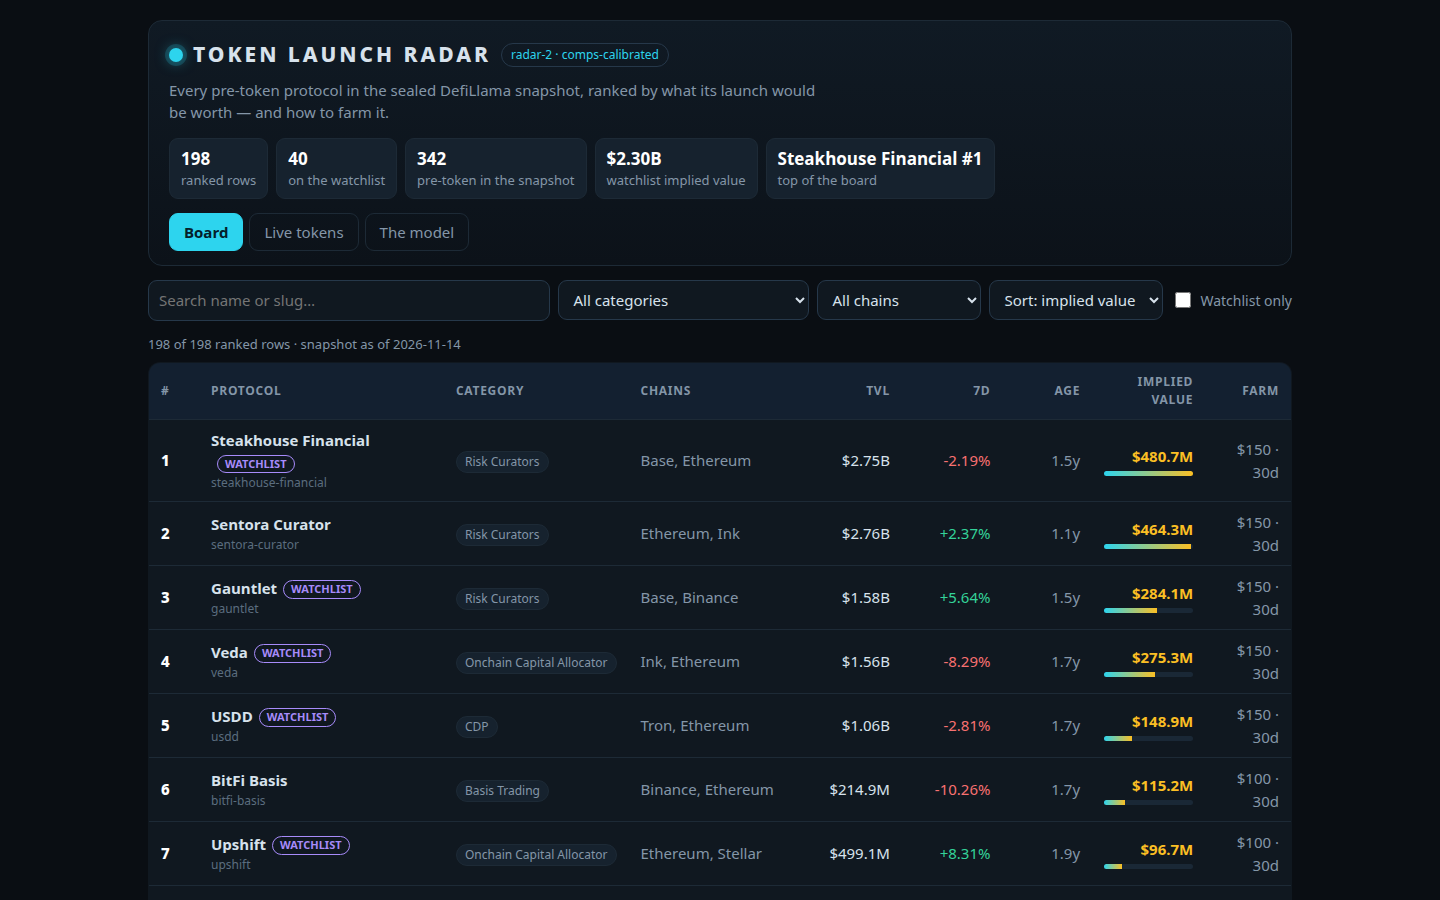
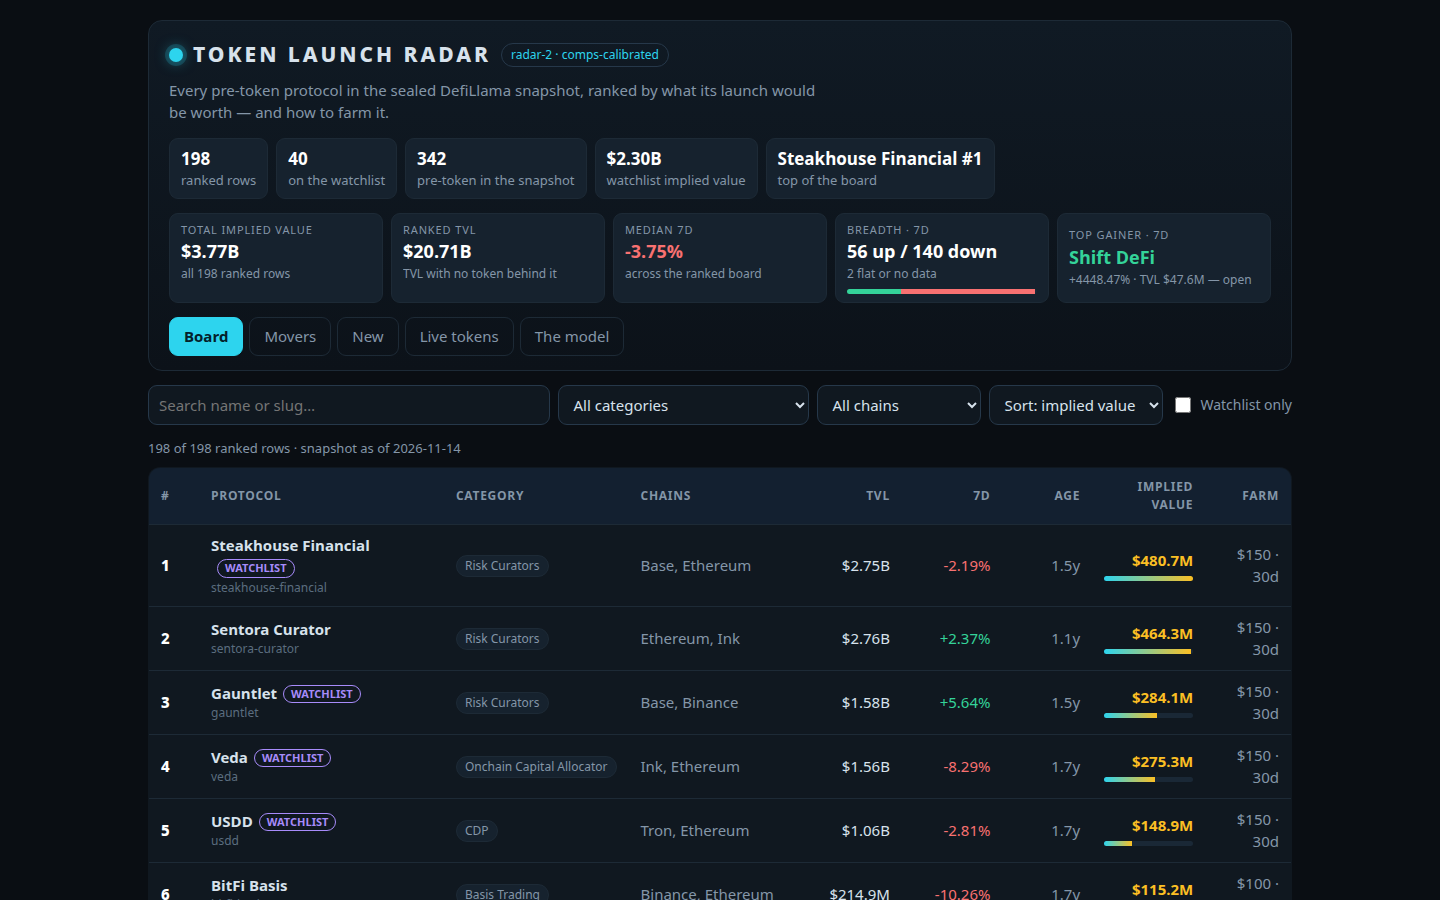
Award pass: trading-terminal dashboard — market strip, Movers and New views

diff --git a/dashboard/app.js b/dashboard/app.js
@@ -279,6 +279,120 @@
     main.appendChild(wrap);
   }
 
+  // ---------- market strip: the whole market at a glance ----------
+  function renderMarket() {
+    var box = document.getElementById('market');
+    box.innerHTML = '';
+    var rows = DATA.rows;
+    var totalImplied = rows.reduce(function (n, r) { return n + r.implied_value_usd; }, 0);
+    var totalTvl = rows.reduce(function (n, r) { return n + r.tvl_usd; }, 0);
+    var changes = rows.map(function (r) { return r.change_7d; })
+      .filter(function (c) { return c !== null && c !== undefined; })
+      .sort(function (a, b) { return a - b; });
+    var median = changes.length ? changes[Math.floor(changes.length / 2)] : null;
+    var up = rows.filter(function (r) { return r.change_7d !== null && r.change_7d > 0; }).length;
+    var down = rows.filter(function (r) { return r.change_7d !== null && r.change_7d < 0; }).length;
+    var flat = rows.length - up - down;
+    var gainer = rows.slice().sort(function (a, b) {
+      return (b.change_7d === null ? -1e9 : b.change_7d) - (a.change_7d === null ? -1e9 : a.change_7d);
+    })[0];
+    function tile(label, big, sub, cls) {
+      var t = el('div', { class: 'mkt' },
+        el('span', { class: 'lbl', text: label }),
+        el('span', { class: 'big' + (cls ? ' ' + cls : ''), text: big }),
+        sub ? el('span', { class: 'sub2', text: sub }) : null);
+      box.appendChild(t);
+      return t;
+    }
+    tile('Total implied value', fmtUsd(totalImplied), 'all ' + rows.length + ' ranked rows');
+    tile('Ranked TVL', fmtUsd(totalTvl), 'TVL with no token behind it');
+    tile('Median 7d', fmtPct(median), 'across the ranked board', median !== null && median >= 0 ? 'up' : 'down');
+    var breadth = tile('Breadth · 7d', up + ' up / ' + down + ' down', flat + ' flat or no data');
+    breadth.appendChild(el('div', { class: 'bread' },
+      el('i', { class: 'g', style: 'width:' + (100 * up / rows.length) + '%' }),
+      el('i', { class: 'r', style: 'width:' + (100 * down / rows.length) + '%' })));
+    box.appendChild(el('button', { class: 'mkt', type: 'button', onclick: function () { openDetail(gainer.slug); } },
+      el('span', { class: 'lbl', text: 'Top gainer · 7d' }),
+      el('span', { class: 'big up', text: gainer.name }),
+      el('span', { class: 'sub2', text: fmtPct(gainer.change_7d) + ' · TVL ' + fmtUsd(gainer.tvl_usd) + ' — open' })));
+  }
+
+  // ---------- movers ----------
+  function moverTable(rows, last) {
+    var table = el('table', { class: 'mini' });
+    table.appendChild(el('thead', {}, el('tr', {},
+      el('th', { text: '#' }), el('th', { text: 'Protocol' }), el('th', { class: 'num', text: 'TVL' }),
+      el('th', { class: 'num', text: '7d' }), el('th', { class: 'num', text: last === 'swing' ? '$ swing' : 'Implied' }))));
+    var tbody = el('tbody', {});
+    rows.forEach(function (r) {
+      var swing = r.tvl_usd * (r.change_7d === null ? 0 : r.change_7d) / 100;
+      tbody.appendChild(el('tr', { onclick: function () { openDetail(r.slug); } },
+        el('td', { class: 'rank', text: String(r.rank) }),
+        el('td', {}, el('span', { class: 'name', text: r.name }),
+          watchSet[r.slug] ? el('span', { class: 'badge', text: 'WATCHLIST' }) : null),
+        el('td', { class: 'num', text: fmtUsd(r.tvl_usd) }),
+        el('td', { class: 'num pct ' + (r.change_7d === null ? 'mut' : r.change_7d >= 0 ? 'pos' : 'neg'), text: fmtPct(r.change_7d) }),
+        el('td', { class: 'num ' + (last === 'swing' ? (swing >= 0 ? 'pos' : 'neg') : 'val'),
+          text: last === 'swing' ? (swing >= 0 ? '+' : '−') + fmtUsd(Math.abs(swing)) : fmtUsd(r.implied_value_usd) })));
+    });
+    table.appendChild(tbody);
+    return table;
+  }
+  function renderMovers() {
+    main.innerHTML = '';
+    main.appendChild(el('div', { class: 'sect' },
+      el('h2', { text: 'Movers — 7-day TVL change' }),
+      el('p', { text: 'The snapshot\u2019s own figures, across the ' + DATA.rows.length + ' ranked rows. A move is what the market did; the model prices growth clamped to +120%, so a +4,448% week still scores as +120%. Click a row to open its detail.' })));
+    var withChange = DATA.rows.filter(function (r) { return r.change_7d !== null && r.change_7d !== undefined; });
+    var byChange = withChange.slice().sort(function (a, b) { return b.change_7d - a.change_7d; });
+    var byDollar = DATA.rows.slice()
+      .map(function (r) { return { r: r, d: Math.abs(r.tvl_usd * (r.change_7d === null ? 0 : r.change_7d) / 100) }; })
+      .sort(function (a, b) { return b.d - a.d; }).slice(0, 8)
+      .map(function (x) { return x.r; });
+    var grid = el('div', { class: 'movers' });
+    var gainers = el('div', { class: 'card' }, el('h3', { text: 'Top gainers · 7d' }));
+    gainers.appendChild(moverTable(byChange.slice(0, 10), 'implied'));
+    var losers = el('div', { class: 'card' }, el('h3', { text: 'Top losers · 7d' }));
+    losers.appendChild(moverTable(byChange.slice(-10).reverse(), 'implied'));
+    var swings = el('div', { class: 'card full' }, el('h3', { text: 'Biggest dollar swings — TVL gained or lost in the week' }));
+    swings.appendChild(moverTable(byDollar, 'swing'));
+    grid.appendChild(gainers);
+    grid.appendChild(losers);
+    grid.appendChild(swings);
+    main.appendChild(grid);
+  }
+
+  // ---------- new listings ----------
+  function renderNew() {
+    main.innerHTML = '';
+    main.appendChild(el('div', { class: 'sect' },
+      el('h2', { text: 'New — the most recently tracked launches' }),
+      el('p', { text: '\u201CNew\u201D means newly tracked by DefiLlama, not newly launched — a protocol can run for years before it appears here. Click a row to open its detail.' })));
+    var rows = DATA.rows.filter(function (r) { return r.listed_at; })
+      .sort(function (a, b) { return b.listed_at.localeCompare(a.listed_at); }).slice(0, 20);
+    var nodate = DATA.rows.filter(function (r) { return !r.listed_at; }).length;
+    var table = el('table', {});
+    table.appendChild(el('thead', {}, el('tr', {},
+      el('th', { text: 'Listed' }), el('th', { text: 'Protocol' }), el('th', { text: 'Category' }),
+      el('th', { class: 'num', text: 'TVL' }), el('th', { class: 'num', text: 'Age' }),
+      el('th', { class: 'num', text: 'Implied value' }))));
+    var tbody = el('tbody', {});
+    rows.forEach(function (r) {
+      tbody.appendChild(el('tr', { onclick: function () { openDetail(r.slug); } },
+        el('td', { class: 'mut', text: r.listed_at }),
+        el('td', {}, el('span', { class: 'name', text: r.name }),
+          watchSet[r.slug] ? el('span', { class: 'badge', text: 'WATCHLIST' }) : null,
+          el('div', { class: 'slug', text: r.slug })),
+        el('td', {}, el('span', { class: 'chip', text: r.category || '—' })),
+        el('td', { class: 'num', text: fmtUsd(r.tvl_usd) }),
+        el('td', { class: 'num mut', text: fmtAge(r.age_days) }),
+        el('td', { class: 'num val', text: fmtUsd(r.implied_value_usd) })));
+    });
+    table.appendChild(tbody);
+    main.appendChild(table);
+    main.appendChild(el('p', { class: 'count', text: 'Showing the 20 most recently tracked of ' + DATA.rows.length + ' ranked rows · ' + nodate + ' rows carry no listing date.' }));
+  }
+
   // ---------- live ----------
   function renderLive() {
     main.innerHTML = '';
@@ -352,6 +466,8 @@
     document.getElementById('controls').style.display = state.view === 'board' && !state.selected ? '' : 'none';
     if (state.view === 'live') renderLive();
     else if (state.view === 'model') renderModel();
+    else if (state.view === 'movers') renderMovers();
+    else if (state.view === 'new') renderNew();
     else if (state.selected) renderDetail();
     else renderBoard();
   }
@@ -381,6 +497,7 @@
 
   readHash();
   renderStats();
+  renderMarket();
   fillSelects();
   bind();
   render();

diff --git a/dashboard/app.css b/dashboard/app.css
@@ -78,3 +78,27 @@ tbody tr:last-child td{border-bottom:0}
 .foot{color:var(--dim);font-size:13px;margin-top:22px;border-top:1px solid var(--line);padding-top:14px}
 .foot p{margin:6px 0}
 .empty{padding:34px;text-align:center;color:var(--muted)}
+/* ---- market strip: the whole market at a glance ---- */
+.market{display:grid;grid-template-columns:repeat(5,1fr);gap:8px;margin-top:14px}
+@media(max-width:900px){.market{grid-template-columns:repeat(3,1fr)}}
+@media(max-width:560px){.market{grid-template-columns:repeat(2,1fr)}}
+.mkt{background:var(--chip);border:1px solid var(--line);border-radius:9px;padding:8px 11px;text-align:left;min-width:0}
+button.mkt:hover{border-color:var(--line2)}
+.mkt .lbl{display:block;font-size:11px;letter-spacing:.08em;text-transform:uppercase;color:var(--muted)}
+.mkt .big{display:block;font-size:18px;font-weight:750;color:#fff;font-variant-numeric:tabular-nums;white-space:nowrap;overflow:hidden;text-overflow:ellipsis}
+.mkt .sub2{display:block;font-size:12px;color:var(--muted);white-space:nowrap;overflow:hidden;text-overflow:ellipsis}
+.mkt .up{color:var(--green)} .mkt .down{color:var(--red)}
+.bread{height:5px;border-radius:3px;overflow:hidden;display:flex;margin-top:6px;background:#1a2836}
+.bread i{display:block;height:100%}
+.bread .g{background:var(--green)} .bread .r{background:var(--red)}
+/* ---- section headings + mover tables ---- */
+.sect{margin:0 0 10px}
+.sect h2{font-size:18px}
+.sect p{color:var(--muted);font-size:13px;margin:4px 0 0}
+.movers{display:grid;grid-template-columns:1fr 1fr;gap:16px}
+@media(max-width:760px){.movers{grid-template-columns:1fr}}
+.movers .full{grid-column:1/-1}
+.mini{font-size:13px}
+.mini td{padding:7px 10px}
+.mini .name{font-size:14px}
+.pct{font-weight:700;font-variant-numeric:tabular-nums;white-space:nowrap}

diff --git a/dashboard/index.html b/dashboard/index.html
@@ -11,8 +11,11 @@
   <div class="brand"><span class="radar-dot" aria-hidden="true"></span><span class="brand-name">TOKEN LAUNCH RADAR</span><span class="brand-model">radar-2 · comps-calibrated</span></div>
   <p class="tagline">Every pre-token protocol in the sealed DefiLlama snapshot, ranked by what its launch would be worth — and how to farm it.</p>
   <div class="stats" id="stats"></div>
+  <div class="market" id="market" aria-label="Market state"></div>
   <nav class="tabs" id="tabs" aria-label="Views">
     <button type="button" data-view="board" class="active">Board</button>
+    <button type="button" data-view="movers">Movers</button>
+    <button type="button" data-view="new">New</button>
     <button type="button" data-view="live">Live tokens</button>
     <button type="button" data-view="model">The model</button>
   </nav>

diff --git a/README.md b/README.md
@@ -35,7 +35,7 @@ No protocol name is ever special-cased; the same function scores every row. The 
 - `main.ts` — the program: reads `/input/snapshot.json`, writes `/output/board.json`, `/output/data.js`, copies `dashboard/` and `screenshots/`, writes `/output/dossier.json` with the vendored make.fun library.
 - `lib/model.ts` — the radar-2 model: snapshot parsing, comparables, implied values, farm plans, board validation.
 - `vendor/makefun-board.ts` — make.fun's dossier library, copied byte for byte from the competition kit.
-- `dashboard/` — the static page (index.html, app.css, app.js): sortable/filterable board, a detail view for every protocol with the value arithmetic shown, live-token view, model page. No network, no links out.
+- `dashboard/` — the static page (index.html, app.css, app.js): a market-state strip (total implied value, ranked TVL, median 7-day change, breadth, top gainer), a sortable/filterable board, movers (top gainers/losers, biggest dollar swings) and new-listing views, a detail view for every protocol with the value arithmetic shown, live-token view, model page. No network, no links out.
 - `screenshots/` — the three screenshots the entry hands in: the board, a protocol's detail view, a filtered view.
 
 ## Screenshots
